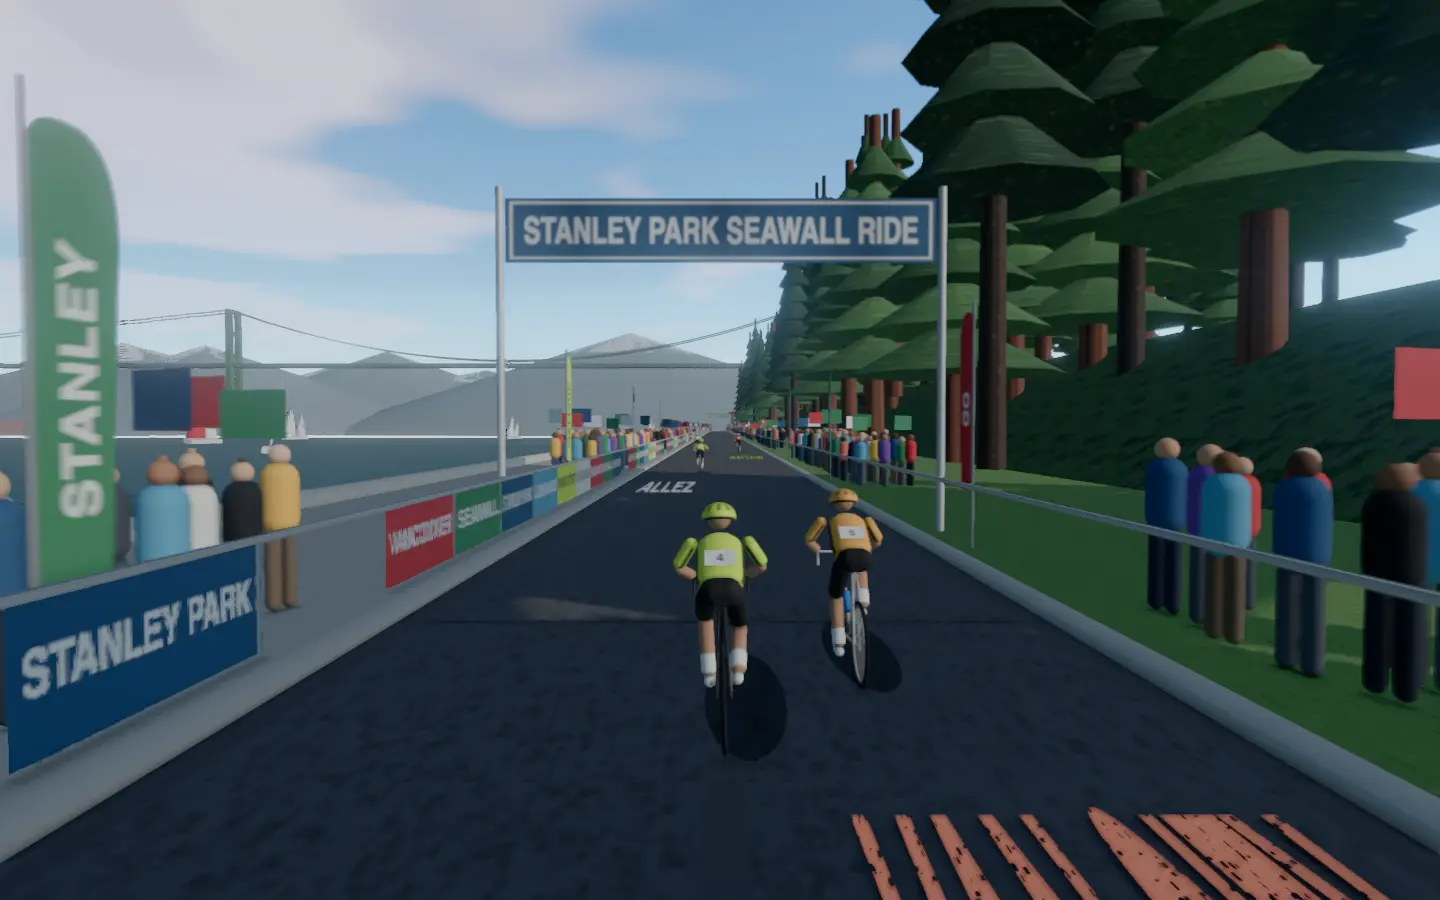
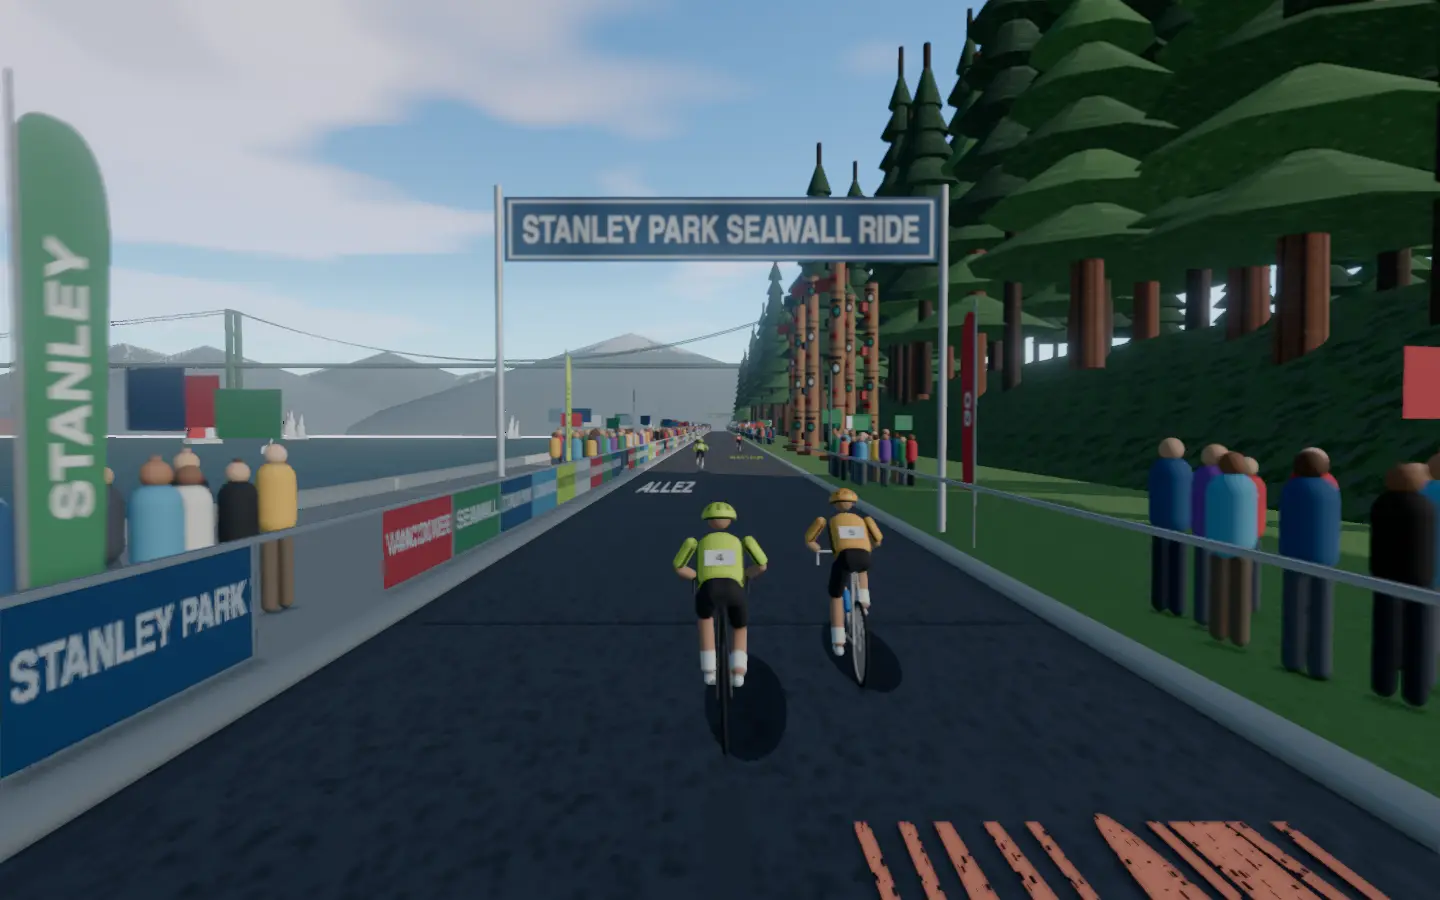
Stand Stanley Park's totem poles in view, facing the path
The Brockton Point totem poles move to 140 m into the loop, so they stand in
the opening view just behind the right-hand barrier, with the crowd clear of
them and their lawn kept off the path. Each pole turns its carved faces,
painted black, red and blue-green on lighter cedar, and its beaks toward the
oncoming riders. Render quality 66% -> 69% (description fidelity 5 -> 7,
geometry 9 -> 10).

diff --git a/frontend/projects/wattzup/src/app/core/world-stanleypark.ts b/frontend/projects/wattzup/src/app/core/world-stanleypark.ts
@@ -62,7 +62,9 @@ const BANK_FOOT = 13;
 const BANK_TOP = 24;
 const BANK_RISE = 7;
 /** The totem poles at Brockton Point, once a lap, on the park-side lawn. */
-const TOTEMS = 60;
+const TOTEMS = 140;
+/** The totem poles stand this far off the centre line, just behind the barrier. */
+const TOTEMS_X = 6.2;
 /** The Lions Gate Bridge stands this far ahead across the narrows, hazed by hand. */
 const BRIDGE_AHEAD = 640;
 const HAZE = 0xcfdde8;
@@ -160,8 +162,12 @@ export class StanleyParkStreet implements SceneStreet {
       flags: this.flagMaterials,
       flagShare: 0.18,
       seeds: [601, 607],
-      // A Sunday crowd: knots along the barriers, open stretches between them.
-      skip: (_side, offset, x) => offset % 40 > 24 || (x > CROWD_NEAR + 1.4 && offset % 12 > 7),
+      // A Sunday crowd: knots along the barriers, open stretches between them, and none in front
+      // of the totem poles.
+      skip: (side, offset, x) =>
+        (side > 0 && offset > TOTEMS - 12 && offset < TOTEMS + 36) ||
+        offset % 40 > 24 ||
+        (x > CROWD_NEAR + 1.4 && offset % 12 > 7),
     });
   }
 
@@ -371,7 +377,7 @@ export class StanleyParkStreet implements SceneStreet {
     const poles = 7;
     for (let k = 0; k < poles; k++) {
       const pole = new Group();
-      const height = 8 + random() * 5;
+      const height = 10 + random() * 5;
       const p = new Mesh(wood, carvings[k % carvings.length]!);
       p.scale.set(1, height, 1);
       p.castShadow = true;
@@ -390,27 +396,29 @@ export class StanleyParkStreet implements SceneStreet {
         beak.position.set(0, height - 0.3, -0.6);
         pole.add(wings, beak);
       }
-      // Noses and beaks jut from the carved faces.
-      for (let y = 1.6; y < height - 1.5; y += 2.2) {
+      // Noses and beaks jut from the carved faces, one under each pair of eyes (the carving's
+      // four figures, top to bottom).
+      for (let j = 0; j < 4; j++) {
         const nose = new Mesh(this.unit, k % 2 ? red : black);
-        nose.scale.set(0.25, 0.4, 0.45);
-        nose.position.set(0, y, -0.55);
+        nose.scale.set(0.28, 0.5, 0.5);
+        nose.position.set(0, height * (1 - (j * 128 + 72) / 512), -0.55);
         pole.add(nose);
       }
-      pole.position.set((k % 2) * 3.5 + random(), 0, -k * 4.2);
-      pole.rotation.y = (random() - 0.5) * 0.4;
+      pole.position.set((k % 2) * 3 + random() * 0.6, 0, -k * 4.2);
+      // The faces look out over the path and toward the oncoming riders.
+      pole.rotation.y = (2 * Math.PI) / 3 + (random() - 0.5) * 0.3;
       group.add(pole);
     }
     const lawn = new Mesh(
-      new PlaneGeometry(16, 40),
+      new PlaneGeometry(10, 34),
       this.material({ map: this.repeat(grassTexture(), 3, 6), roughness: 1 }),
     );
     this.disposables.push(lawn.geometry);
     lawn.rotation.x = -Math.PI / 2;
-    lawn.position.set(2, 0.01, -12);
+    lawn.position.set(4.5, 0.01, -12);
     group.add(lawn);
     this.group.add(group);
-    this.props.push({ mesh: group, offset: TOTEMS, every: LOOP, x: 7.5 });
+    this.props.push({ mesh: group, offset: TOTEMS, every: LOOP, x: TOTEMS_X });
   }
 
   /** Cloth banners on poles across the path, the ride's name on each. */
@@ -758,33 +766,41 @@ function boughTexture(colour: string, seed: number): CanvasTexture {
 }
 
 /**
- * A totem pole's carved and painted figures, stacked: faces with ovoid eyes and brows in black,
- * mouths and cheeks in red, and blue-green inner shapes, on weathered cedar.
+ * A totem pole's carved and painted figures, four stacked: each a face with ovoid eyes under
+ * heavy black brows, blue-green and white within, a red mouth, and formline shapes at its sides,
+ * on weathered cedar. The faces are centred on the texture so they look the way the pole turns.
  */
 function carvingTexture(seed: number): CanvasTexture {
-  const texture = canvasTexture(256, 512, (g) => {
-    speckle(g, 256, 512, '#8a5a3a', seed);
+  return canvasTexture(256, 512, (g) => {
+    speckle(g, 256, 512, '#a87850', seed);
     const random = seeded(seed + 3);
     for (let y = 0; y < 512; y += 128) {
-      g.fillStyle = 'rgba(40,24,16,0.5)';
-      g.fillRect(0, y, 256, 4);
-      for (const x of [80, 176]) {
+      g.fillStyle = 'rgba(40,24,16,0.55)';
+      g.fillRect(0, y, 256, 5);
+      const inner = random() < 0.5 ? '#2f8a7a' : '#f2efe6';
+      for (const x of [98, 158]) {
         g.fillStyle = '#1a1614';
+        g.fillRect(x - 30, y + 18, 60, 9);
         g.beginPath();
-        g.ellipse(x, y + 40, 30, 18, 0, 0, Math.PI * 2);
+        g.ellipse(x, y + 46, 26, 16, 0, 0, Math.PI * 2);
         g.fill();
-        g.fillStyle = random() < 0.5 ? '#2f8a7a' : '#f2efe6';
+        g.fillStyle = inner;
         g.beginPath();
-        g.ellipse(x, y + 40, 16, 9, 0, 0, Math.PI * 2);
+        g.ellipse(x, y + 46, 14, 8, 0, 0, Math.PI * 2);
         g.fill();
-        g.fillStyle = '#1a1614';
-        g.fillRect(x - 32, y + 12, 64, 7);
       }
-      g.fillStyle = '#b02a22';
-      g.fillRect(84, y + 86, 88, 18);
+      g.fillStyle = '#c0302a';
+      g.fillRect(92, y + 92, 72, 20);
       g.fillStyle = '#1a1614';
-      g.fillRect(92, y + 92, 72, 5);
+      g.fillRect(100, y + 99, 56, 6);
+      // Formline ovoids and U-shapes at the figure's sides.
+      for (const x of [30, 226]) {
+        g.strokeStyle = random() < 0.5 ? '#1a1614' : '#c0302a';
+        g.lineWidth = 7;
+        g.beginPath();
+        g.ellipse(x, y + 64, 18, 30, 0, 0, Math.PI * 2);
+        g.stroke();
+      }
     }
   });
-  return texture;
 }

diff --git a/docs/class-worlds.md b/docs/class-worlds.md
@@ -25,7 +25,7 @@ Every class in `frontend/public/classes.json`, with its World Ride scene. Render
 | 19 | 15 Minutes HIIT Sprinting Efforts | Golden Gate Park | 81% | Fog drifts through the eucalyptus and Monterey cypress along John F. Kennedy Drive in San Francisco's Golden Gate Park, past roller skaters, Spreckels Lake and the bison grazing in their paddock toward the Dutch Windmill above Ocean Beach. The one-minute opener rolls through the eucalyptus groves, and the seven thirty-second sprints each fly past the bison paddock before a minute's recovery coasts on toward the windmill. |
 | 20 | In and Out, Shake It All About | Blackpool Illuminations | 68% | Seaside lights, piers and the tower; weave in and out of tram stops along the illuminated promenade. |
 | 21 | Quick Sprint Session | Copacabana Promenade (concept) |  | Rio's wave-patterned beachfront at sunset; sprint between volleyball nets with Sugarloaf on the horizon. |
-| 22 | 15 Minute Beginner Session | Stanley Park Seawall | 66% | The seawall path curls around Vancouver's Stanley Park between the cedars and the sea, past the totem poles at Brockton Point and sailboats on English Bay toward the green towers of the Lions Gate Bridge under the North Shore mountains. The easy warm-up rolls past the totem poles, the one- and two-minute pushes follow the seawall's curve under the cedars, and the single thirty-second sprint races toward the bridge. |
+| 22 | 15 Minute Beginner Session | Stanley Park Seawall | 69% | The seawall path curls around Vancouver's Stanley Park between the cedars and the sea, past the totem poles at Brockton Point and sailboats on English Bay toward the green towers of the Lions Gate Bridge under the North Shore mountains. The easy warm-up rolls past the totem poles, the one- and two-minute pushes follow the seawall's curve under the cedars, and the single thirty-second sprint races toward the bridge. |
 | 23 | 15 Minute Cardio Workout at Home | Suburban Sunrise | 70% | Quiet tree-lined streets at dawn; sprinklers ticking, papers landing, neighbours waving from porches. |
 | 24 | 15 Min HIIT Cardio: Belly Fat Loss | Bondi to Bronte (concept) |  | Sydney's clifftop coast path; surf breaking below and an ocean pool at every headland. |
 | 25 | 15 Minute HIIT Cardio | Serpentine, Hyde Park (concept) |  | London lakeside paths with rowing boats and swans; each effort sweeps around the Serpentine. |

diff --git a/docs/detailed-designs/world-ride/draw-class-scene/README.md b/docs/detailed-designs/world-ride/draw-class-scene/README.md
@@ -239,7 +239,7 @@ None.
   - the path between low kerbs with the fans' writing every 25 m, race barriers hung with the ride's banners (STANLEY PARK, SEAWALL, VANCOUVER, ENGLISH BAY, LIONS GATE), the kit's feather flags every 16 m along both and cloth banners across it;
   - on the left a concrete walkway where walkers and joggers go both ways (the kit's `Figures`), then the seawall's granite face dropping to English Bay, sailboats tacking on it; `sink` drops the ground below the water;
   - on the right a grass verge, a mossy rock bank rising 7 m and the forest on and above it: western red cedars with drooping tiers on fluted reddish trunks and tall dark Douglas firs;
-  - once a lap, 60 m in, the totem poles of Brockton Point on their lawn: carved cedar poles of stacked figures painted black, red and blue-green, some with wings outstretched;
+  - once a lap, 140 m into the loop and so in the opening view, the totem poles of Brockton Point on their lawn 6.2 m off the centre line, the crowd and the trees standing back from them: carved cedar poles of four stacked figures painted black, red and blue-green, each turned so its faces and beaks look out over the path toward the oncoming riders, some with wings outstretched;
   - the shared crowd in knots along the barriers;
   - 640 m ahead the Lions Gate Bridge across the narrows, its green towers, sagging cables and high deck, freighters at anchor in the bay and the North Shore mountains about 4 km off, forested ridges with snow on their tops, all hazed by hand.
 
